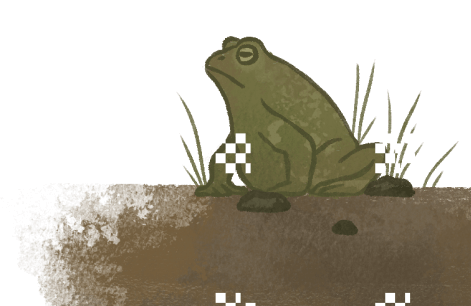
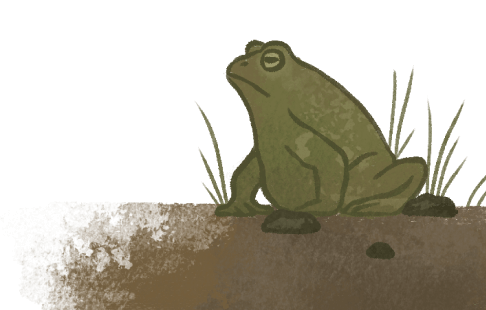
Increase responsiveness of Organizations screen (#46)

Changed region(s): [[0.0892, 0.1176, 1.0, 1.0], [0.8025, 0.9412, 0.8917, 1.0], [0.4459, 0.9412, 0.5648, 1.0]]

diff --git a/src/screens/organizations/index.js b/src/screens/organizations/index.js
@@ -1,73 +1,79 @@
-import { organizations } from "./organizations";
+import { Organization } from "./organization";
 
-const Organizations = () => {
+export function Organizations() {
   return (
-    <section id="organizations" className="organizations relative min-h-screen">
-      <div className="absolute h-screen w-screen bg-mud bg-cover bg-center bg-no-repeat"></div>
-      <div className="absolute h-screen w-screen bg-tree-and-owl bg-contain bg-left bg-no-repeat"></div>
-      <div className="absolute h-screen w-screen bg-frog bg-right-bottom bg-no-repeat"></div>
-
-      <div className="relative mx-auto flex w-full max-w-7xl flex-col space-y-16 px-10 py-24 text-white md:px-32 lg:px-10">
-        <h2 className="text-center font-brand text-4xl">
-          Organizations working on wild animal suffering
+    <section
+      id="organizations"
+      className="relative flex min-h-screen items-center bg-mud bg-cover bg-top py-14 lg:py-24"
+    >
+      <div className="absolute bottom-0 h-full w-full bg-none bg-[-180px_-20px] bg-no-repeat sm:bg-tree-and-birds lg:max-h-max lg:bg-contain lg:bg-left-top" />
+      <div className="relative mx-auto flex w-full flex-col space-y-14 px-10">
+        <h2 className="mx-auto max-w-xl text-center font-brand text-4xl text-white">
+          Organizations working on Wild Animal Suffering
         </h2>
 
-        <div className="grid gap-y-12 lg:mx-8 lg:grid-cols-2 lg:gap-x-48 lg:gap-y-16 xl:mx-24">
-          {organizations.map((organization) => (
-            <div
-              key={organization.name}
-              className="flex flex-col items-center justify-center gap-x-5 text-white lg:flex-row lg:items-start"
-            >
-              <img
-                className="aspect-square"
-                src={`/images/organizations/${organization.iconKey}.png`}
-                alt=""
-              />
-
-              <div className="flex flex-col items-center lg:items-start lg:border-l lg:border-solid lg:border-primary lg:pl-3">
-                <h3 className="p-2 text-xl font-bold">{organization.name}</h3>
-                <div className="p-2 text-justify text-sm">
-                  {organization.description}
-                </div>
-
-                <div className="mt-5 flex flex-row space-x-5 p-2 font-bold capitalize text-black">
-                  <a
-                    href={organization.links.visit}
-                    target="_blank"
-                    rel="noreferrer"
-                    className="rounded-xl bg-primary px-5 py-1"
-                  >
-                    visit
-                  </a>
-                  <a
-                    href={organization.links.donate}
-                    target="_blank"
-                    rel="noreferrer"
-                    className="rounded-xl bg-primary-light px-5 py-1"
-                  >
-                    donate
-                  </a>
-                  <a
-                    href={organization.links.volunteer}
-                    target="_blank"
-                    rel="noreferrer"
-                    className="rounded-xl bg-primary-lighter px-5 py-1"
-                  >
-                    volunteer
-                  </a>
-                </div>
-              </div>
-            </div>
-          ))}
-        </div>
-
-        <div className="hidden text-center lg:block">
-          Be sure to check out Wild Animal Welfare Committee and wild animal
-          organization too!
+        <div className="mx-auto grid max-w-sm gap-12 md:max-w-4xl md:grid-cols-2 xl:max-w-6xl">
+          <Organization
+            name="Wild Animal Initiative"
+            iconKey="wild-animal-initiative"
+            links={[
+              ["Visit", "https://www.wildanimalinitiative.org/"],
+              ["Donate", "https://www.wildanimalinitiative.org/donate"],
+              ["Careers", "https://www.wildanimalinitiative.org/career"],
+            ]}
+          >
+            Wild Animal Initiative (WAI) currently operates in the U.S., where
+            they work to strengthen the animal advocacy movement through
+            creating an academic field dedicated to wild animal welfare.
+          </Organization>
+          <Organization
+            name="Animal Ethics"
+            iconKey="animal-ethics"
+            links={[
+              ["Visit", "https://www.animal-ethics.org/"],
+              ["Donate", "https://www.animal-ethics.org/support-us"],
+              ["Volunteer", "https://www.animal-ethics.org/volunteers"],
+            ]}
+          >
+            Animal Ethics aims to achieve a shift in attitudes towards nonhuman
+            animals. Their vision is a world where sentient beings are given
+            full moral consideration.
+          </Organization>
+          <Organization
+            name="Rethink Priorities"
+            iconKey="rethink-priorities"
+            links={[
+              ["Visit", "https://rethinkpriorities.org/"],
+              ["Donate", "https://rethinkpriorities.org/donate"],
+              ["Careers", "https://rethinkpriorities.org/career-opportunities"],
+            ]}
+          >
+            Rethink Priorities is a research organization that conducts critical
+            research to inform policymakers and major foundations about how to
+            best help people and nonhuman animals in both the present and the
+            long-term future.
+          </Organization>
+          <Organization
+            name="Faunalytics"
+            iconKey="faunalytics"
+            links={[
+              ["Visit", "https://faunalytics.org/"],
+              ["Donate", "https://faunalytics.org/donate"],
+              ["Volunteer", "https://faunalytics.org/volunteer"],
+            ]}
+          >
+            Faunalytics' mission is to empower animal advocates with access to
+            research, analysis, strategies, and messages that maximize their
+            effectiveness to reduce animal suffering.
+          </Organization>
         </div>
       </div>
+
+      <img
+        className="not-sr-only pointer-events-none absolute bottom-0 right-0 hidden max-h-96 w-[20vw] lg:block"
+        src="/images/organizations/frog.png"
+        alt=""
+      />
     </section>
   );
-};
-
-export { Organizations };
+}

diff --git a/src/screens/organizations/organization.js b/src/screens/organizations/organization.js
@@ -1,0 +1,36 @@
+import { cx } from "../../utils/cx";
+export function Organization({ name, children, iconKey, links }) {
+  return (
+    <div className="flex flex-col items-center justify-center gap-4 rounded-xl bg-white/20 p-6 text-white lg:flex-row lg:items-start lg:bg-transparent xl:gap-5">
+      <img
+        className="aspect-square lg:w-16 xl:w-24"
+        src={`/images/organizations/${iconKey}.png`}
+        alt=""
+      />
+
+      <div className="flex h-full flex-col items-center lg:items-start lg:border-l lg:border-solid lg:border-primary lg:pl-4 xl:pl-5">
+        <h3 className="text-xl font-bold">{name}</h3>
+        <div className="mt-3 flex-1 text-sm leading-relaxed">{children}</div>
+
+        <div className="mt-5 grid w-full grid-cols-2 items-end gap-4 font-bold capitalize text-black lg:block lg:space-x-4">
+          {links.map(([text, url], i) => (
+            <a
+              key={text}
+              href={url}
+              target="_blank"
+              rel="noreferrer"
+              className={cx(
+                "rounded-xl py-1 px-5 text-center",
+                i % 3 === 0 && "bg-primary",
+                i % 3 === 1 && "bg-primary-light",
+                i % 3 === 2 && "col-span-2 bg-primary-lighter"
+              )}
+            >
+              {text}
+            </a>
+          ))}
+        </div>
+      </div>
+    </div>
+  );
+}

diff --git a/tailwind.config.js b/tailwind.config.js
@@ -98,7 +98,8 @@ module.exports = {
           "url('/public/images/other-resources/section-flipped.png')",
         "resource-section-active-flipped":
           "url('/public/images/other-resources/section-active-flipped.png')",
-        "tree-and-owl": "url('/public/images/organizations/tree-and-owl.png')",
+        "tree-and-birds":
+          "url('/public/images/organizations/tree-and-birds.png')",
       },
       fontFamily: {
         sans: ["Poppins", "sans-serif"],
